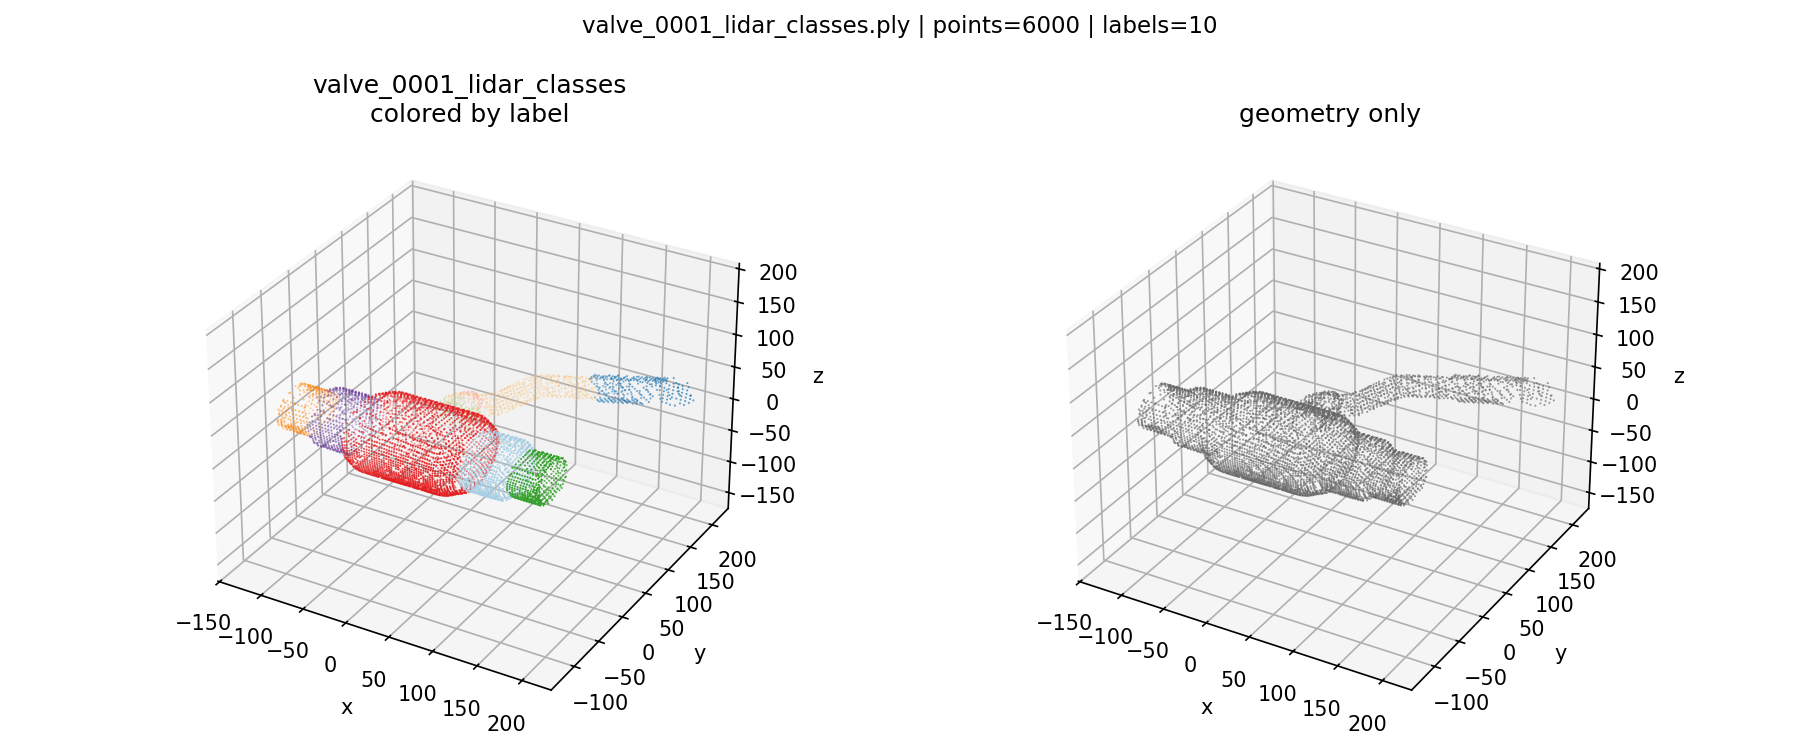
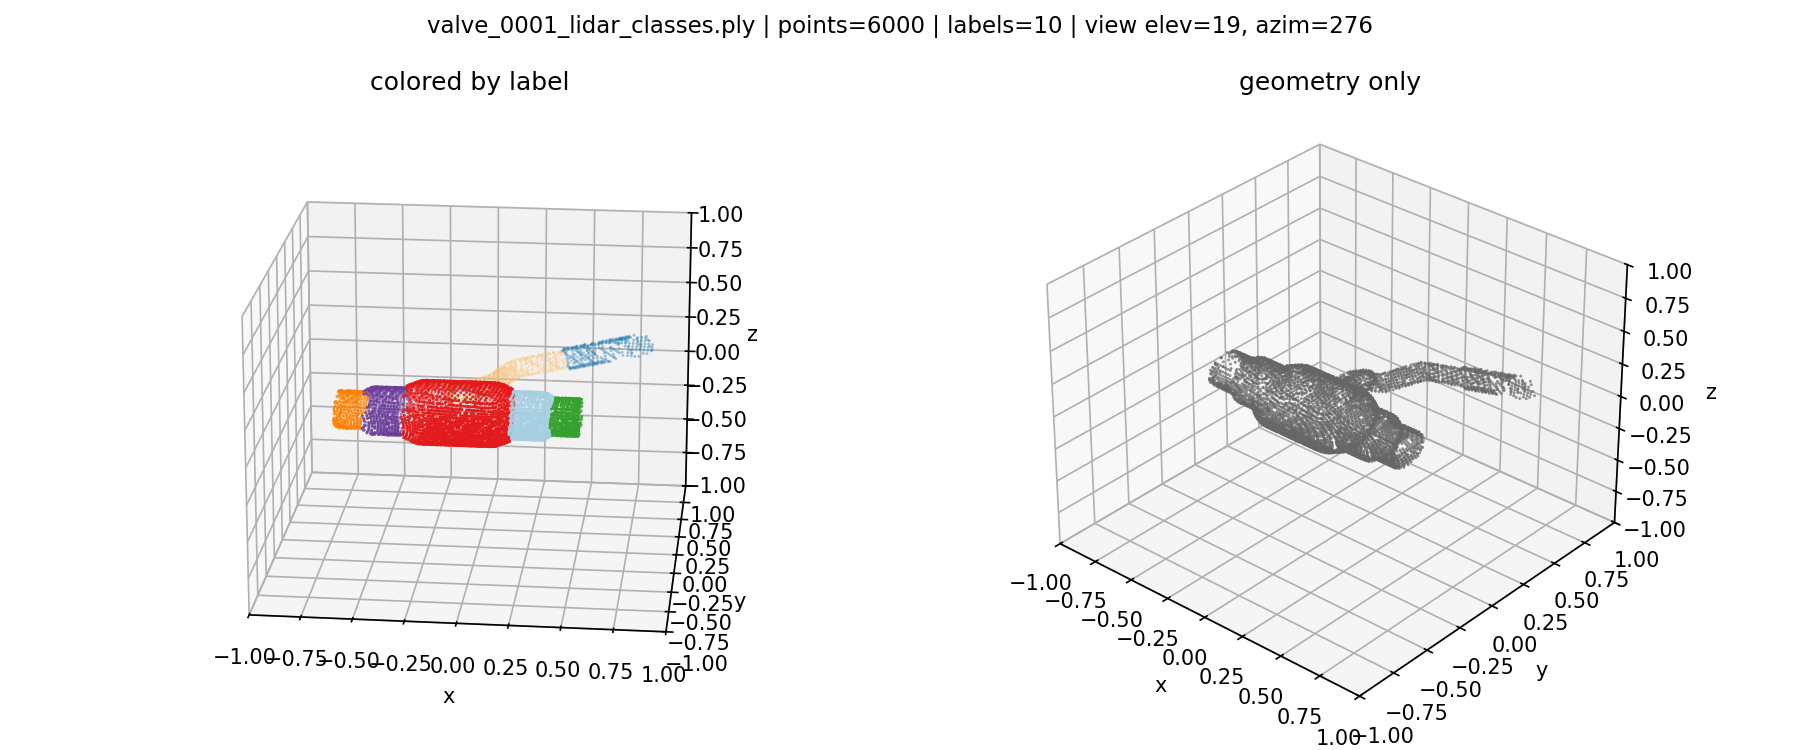
diff files

diff --git a/part_2/scripts/visualize_point_clouds.py b/part_2/scripts/visualize_point_clouds.py
@@ -1,6 +1,7 @@
 from __future__ import annotations
 
 import argparse
+import hashlib
 from pathlib import Path
 
 import matplotlib
@@ -69,6 +70,39 @@ def read_ascii_ply(path: Path) -> tuple[np.ndarray, np.ndarray]:
     return points, labels
 
 
+def cloud_signature(points: np.ndarray) -> tuple[float, float, float, float]:
+    mins = points.min(axis=0)
+    maxs = points.max(axis=0)
+    extent = maxs - mins
+    center = points.mean(axis=0)
+    return float(len(points)), float(extent.max()), float(center[2]), float(extent[2])
+
+
+def select_diverse_files(files: list[Path], count: int) -> list[Path]:
+    """Pick files that differ in size/shape rather than evenly by filename."""
+    if count >= len(files):
+        return files
+
+    scored: list[tuple[Path, tuple[float, float, float, float]]] = []
+    for path in files:
+        points, _ = read_ascii_ply(path)
+        scored.append((path, cloud_signature(points)))
+
+    # Sort by point count, then pick evenly spaced indices for diversity.
+    scored.sort(key=lambda item: item[1][0])
+    indices = np.linspace(0, len(scored) - 1, num=count, dtype=int)
+    selected = [scored[i][0] for i in indices]
+
+    # Avoid accidental duplicates while preserving order.
+    unique: list[Path] = []
+    seen: set[str] = set()
+    for path in selected:
+        if path.name not in seen:
+            unique.append(path)
+            seen.add(path.name)
+    return unique
+
+
 def subsample(points: np.ndarray, labels: np.ndarray, max_points: int, rng: np.random.Generator) -> tuple[np.ndarray, np.ndarray]:
     if len(points) <= max_points:
         return points, labels
@@ -76,37 +110,57 @@ def subsample(points: np.ndarray, labels: np.ndarray, max_points: int, rng: np.r
     return points[idx], labels[idx]
 
 
+def normalize_for_view(points: np.ndarray) -> np.ndarray:
+    centered = points - points.mean(axis=0)
+    scale = float(np.linalg.norm(centered, axis=1).max())
+    if scale <= 1e-12:
+        return centered
+    return centered / scale
+
+
+def view_angles(path: Path) -> tuple[float, float]:
+    digest = hashlib.sha1(path.name.encode("utf-8")).hexdigest()
+    azim = int(digest[:4], 16) % 360
+    elev = 15 + (int(digest[4:6], 16) % 35)
+    return elev, azim
+
+
 def set_equal_axes(ax: plt.Axes, points: np.ndarray) -> None:
-    mins = points.min(axis=0)
-    maxs = points.max(axis=0)
-    center = (mins + maxs) / 2.0
-    radius = max(float((maxs - mins).max()) / 2.0, 1e-6)
-    ax.set_xlim(center[0] - radius, center[0] + radius)
-    ax.set_ylim(center[1] - radius, center[1] + radius)
-    ax.set_zlim(center[2] - radius, center[2] + radius)
+    radius = max(float(np.linalg.norm(points, axis=1).max()), 1e-6)
+    ax.set_xlim(-radius, radius)
+    ax.set_ylim(-radius, radius)
+    ax.set_zlim(-radius, radius)
 
 
 def save_visualization(path: Path, points: np.ndarray, labels: np.ndarray, output_path: Path) -> None:
+    view_points = normalize_for_view(points)
+    elev, azim = view_angles(path)
+
     fig = plt.figure(figsize=(12, 5))
 
     ax1 = fig.add_subplot(1, 2, 1, projection="3d")
     colors = LABEL_COLORS[labels % len(LABEL_COLORS)]
-    ax1.scatter(points[:, 0], points[:, 1], points[:, 2], c=colors, s=1, linewidths=0)
-    ax1.set_title(f"{path.stem}\ncolored by label")
-    set_equal_axes(ax1, points)
+    ax1.scatter(view_points[:, 0], view_points[:, 1], view_points[:, 2], c=colors, s=2, linewidths=0)
+    ax1.set_title("colored by label")
+    set_equal_axes(ax1, view_points)
+    ax1.view_init(elev=elev, azim=azim)
     ax1.set_xlabel("x")
     ax1.set_ylabel("y")
     ax1.set_zlabel("z")
 
     ax2 = fig.add_subplot(1, 2, 2, projection="3d")
-    ax2.scatter(points[:, 0], points[:, 1], points[:, 2], c="#666666", s=1, linewidths=0, alpha=0.65)
+    ax2.scatter(view_points[:, 0], view_points[:, 1], view_points[:, 2], c="#666666", s=2, linewidths=0, alpha=0.7)
     ax2.set_title("geometry only")
-    set_equal_axes(ax2, points)
+    set_equal_axes(ax2, view_points)
+    ax2.view_init(elev=elev + 12, azim=azim + 35)
     ax2.set_xlabel("x")
     ax2.set_ylabel("y")
     ax2.set_zlabel("z")
 
-    fig.suptitle(f"{path.name} | points={len(points)} | labels={len(np.unique(labels))}", fontsize=11)
+    fig.suptitle(
+        f"{path.name} | points={len(points)} | labels={len(np.unique(labels))} | view elev={elev}, azim={azim}",
+        fontsize=11,
+    )
     fig.tight_layout()
     output_path.parent.mkdir(parents=True, exist_ok=True)
     fig.savefig(output_path, dpi=150)
@@ -120,6 +174,7 @@ def parse_args() -> argparse.Namespace:
     parser.add_argument("--output-dir", type=Path, default=root / "data_vis", help="Directory for PNG previews.")
     parser.add_argument("--max-files", type=int, default=6, help="How many PLY files to visualize.")
     parser.add_argument("--max-points", type=int, default=6000, help="Max points per cloud for plotting.")
+    parser.add_argument("--files", nargs="*", default=None, help="Explicit list of PLY filenames to visualize.")
     parser.add_argument("--seed", type=int, default=42)
     return parser.parse_args()
 
@@ -131,12 +186,14 @@ def main() -> None:
     files = sorted(args.data_dir.glob("*.ply"))
     if not files:
         raise FileNotFoundError(f"no .ply files found in {args.data_dir}")
-    if args.max_files is not None:
-        if args.max_files >= len(files):
-            selected = files
-        else:
-            indices = np.linspace(0, len(files) - 1, num=args.max_files, dtype=int)
-            selected = [files[i] for i in indices]
+
+    if args.files:
+        selected = [args.data_dir / name for name in args.files]
+        for path in selected:
+            if not path.exists():
+                raise FileNotFoundError(path)
+    else:
+        selected = select_diverse_files(files, args.max_files)
 
     print(f"Visualizing {len(selected)} files from {args.data_dir}")
     for path in selected:

diff --git a/part_2/data_vis/README.md b/part_2/data_vis/README.md
@@ -2,9 +2,11 @@
 
 Небольшая выборка PNG-превью облаков точек из `../data/`.
 
-Каждая картинка показывает:
-- слева: облако, раскрашенное по `scalar_Label`;
-- справа: геометрию без цветовых меток.
+На **одной** картинке слева и справа показано **одно и то же облако** из одного PLY-файла:
+- слева — раскраска по `scalar_Label`;
+- справа — только геометрия.
+
+Разные PNG-файлы соответствуют **разным** PLY. Они могут выглядеть похоже, потому что в датасете много однотипных клапанов в близкой ориентации. Скрипт специально выбирает более разные облака по числу точек/форме и меняет ракурс для каждого файла.
 
 Сгенерировать заново:
 
@@ -12,6 +14,12 @@
 cd part_2
 source ~/envs/.venv/bin/activate
 python scripts/visualize_point_clouds.py --max-files 6
+```
+
+Явно указать файлы:
+
+```sh
+python scripts/visualize_point_clouds.py --files valve_0001_lidar_classes.ply valve_0123_lidar_classes.ply valve_0330_lidar_classes.ply
 ```
 
 Полный датасет `data/` в git не коммитится.